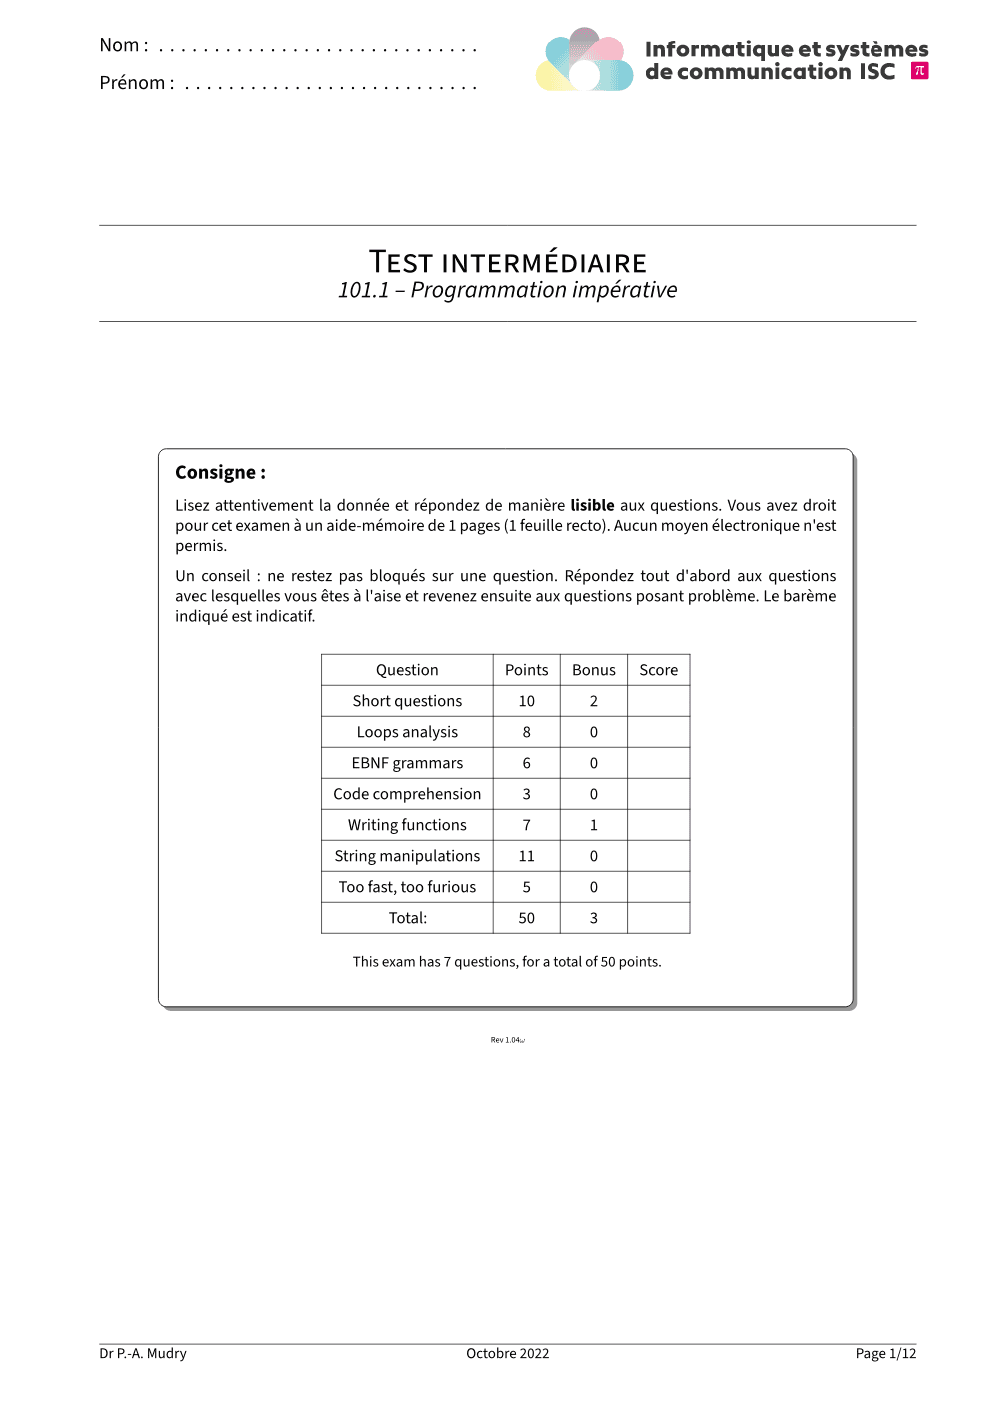
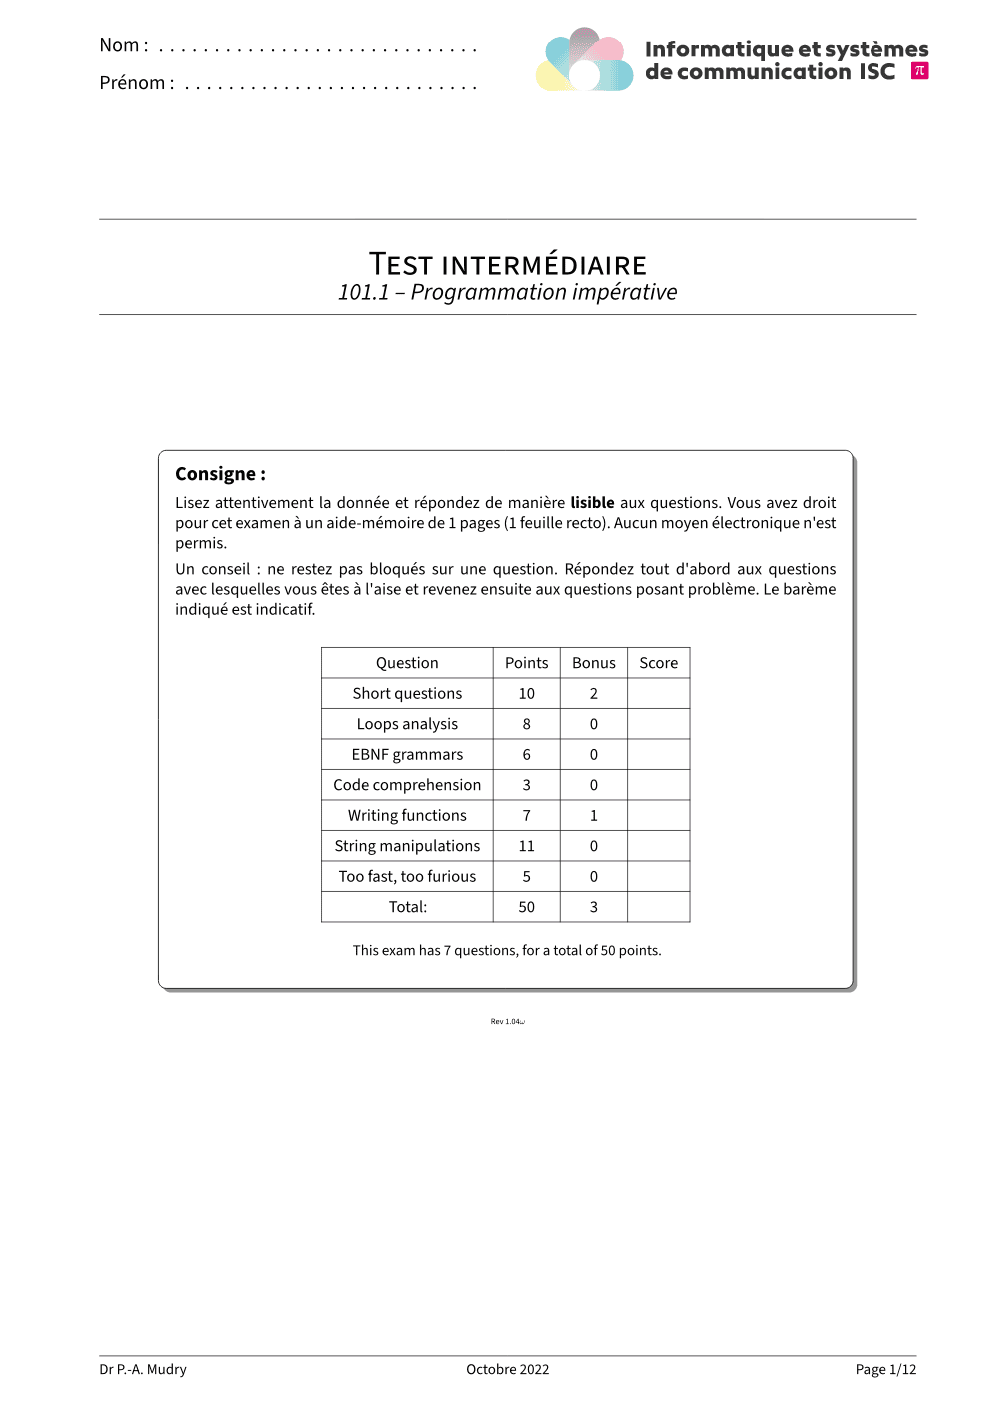
README links to absolute GitHub URLs for files outside the bundle; universe-check output parsing

diff --git a/README.md b/README.md
@@ -7,7 +7,7 @@
 
 [![CI](https://github.com/ISC-HEI/isc-hei-exam/actions/workflows/ci.yml/badge.svg)](https://github.com/ISC-HEI/isc-hei-exam/actions/workflows/ci.yml)
 [![Typst Universe](https://img.shields.io/badge/Typst%20Universe-isc--hei--exam-239dad?logo=typst&logoColor=white)](https://typst.app/universe/package/isc-hei-exam)
-[![License: MIT](https://img.shields.io/badge/license-MIT-brightgreen)](./LICENSE)
+[![License: MIT](https://img.shields.io/badge/license-MIT-brightgreen)](https://github.com/ISC-HEI/isc-hei-exam/blob/main/LICENSE)
 
 # isc-hei-exam — written exams and exercise series
 
@@ -17,9 +17,9 @@ The [Typst](https://typst.app/) template for written exams and exercise series o
 
 | Cover | Questions | Solutions |
 |:---:|:---:|:---:|
-| <a href="./examples/exam.pdf"><img src="./thumbnail.png" width="230" alt="Cover of the sample exam"></a> | <a href="./examples/exam.pdf">exam.pdf</a> — 12 pages, the student version | <a href="./examples/exam-sol.pdf">exam-sol.pdf</a> — the same source with the answers |
+| <a href="https://github.com/ISC-HEI/isc-hei-exam/blob/main/examples/exam.pdf?raw=true"><img src="thumbnail.png" width="230" alt="Cover of the sample exam"></a> | <a href="https://github.com/ISC-HEI/isc-hei-exam/blob/main/examples/exam.pdf?raw=true">exam.pdf</a> — 12 pages, the student version | <a href="https://github.com/ISC-HEI/isc-hei-exam/blob/main/examples/exam-sol.pdf?raw=true">exam-sol.pdf</a> — the same source with the answers |
 
-The series flavour: [`series.pdf`](./examples/series.pdf) and [`series-sol.pdf`](./examples/series-sol.pdf).
+The series flavour: [`series.pdf`](https://github.com/ISC-HEI/isc-hei-exam/blob/main/examples/series.pdf?raw=true) and [`series-sol.pdf`](https://github.com/ISC-HEI/isc-hei-exam/blob/main/examples/series-sol.pdf?raw=true).
 
 ## Features
 
@@ -133,7 +133,7 @@ Known differences: the "Listing continues on next page…" notes of `mdframed` a
 tools/compare-exam.sh exam.typ reference.pdf reference-sol.pdf
 ```
 
-renders the Typst document in both modes next to the LaTeX PDFs, one PNG per page (LaTeX left, Typst right), compares the page counts and the question structure of every page. See [`CONTRIBUTING.md`](./CONTRIBUTING.md) for the development and release workflow.
+renders the Typst document in both modes next to the LaTeX PDFs, one PNG per page (LaTeX left, Typst right), compares the page counts and the question structure of every page. See [`CONTRIBUTING.md`](https://github.com/ISC-HEI/isc-hei-exam/blob/main/CONTRIBUTING.md) for the development and release workflow.
 
 ## Dependencies
 
@@ -152,7 +152,7 @@ Only Typst is needed to write exams. The rest serves the development and the com
 
 ## License
 
-Copyright © 2026 P.-A. Mudry / ISC — HES-SO Valais. Released under the [MIT License](./LICENSE). The ISC and HES-SO logos shipped in `assets/` are the marks of their institutions and are not covered by that licence.
+Copyright © 2026 P.-A. Mudry / ISC — HES-SO Valais. Released under the [MIT License](https://github.com/ISC-HEI/isc-hei-exam/blob/main/LICENSE). The ISC and HES-SO logos shipped in `assets/` are the marks of their institutions and are not covered by that licence.
 
 ---
 
